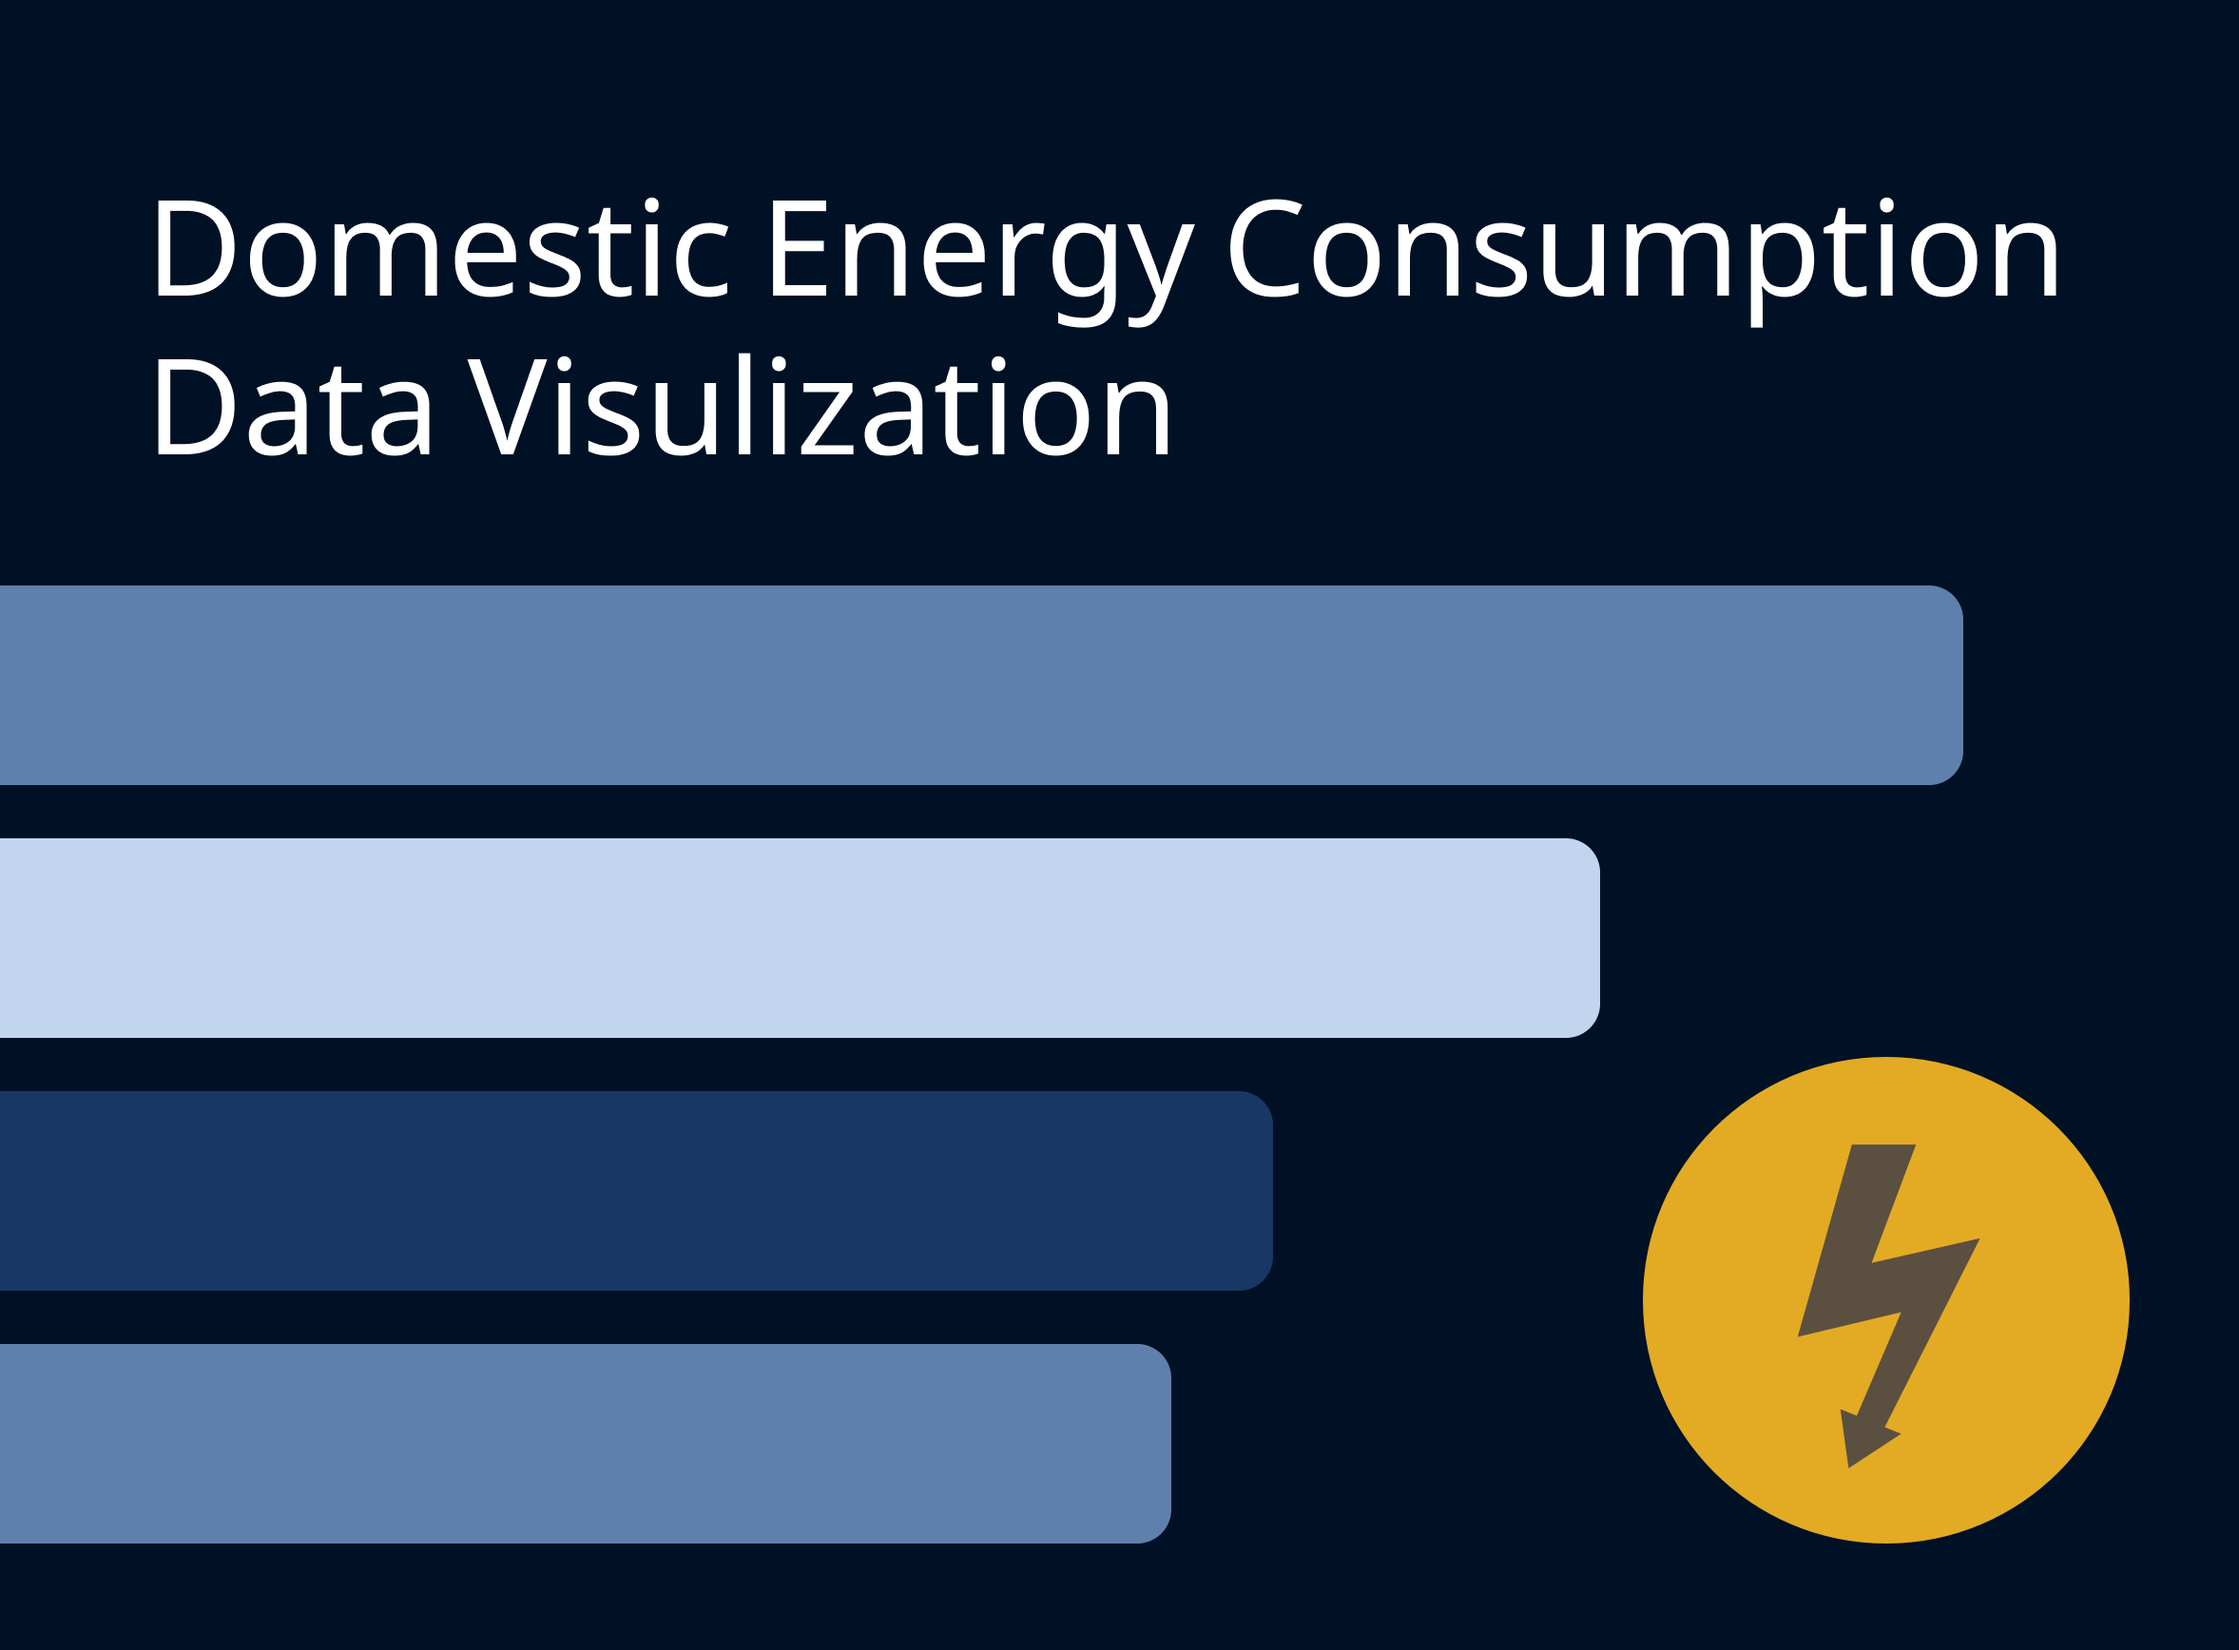
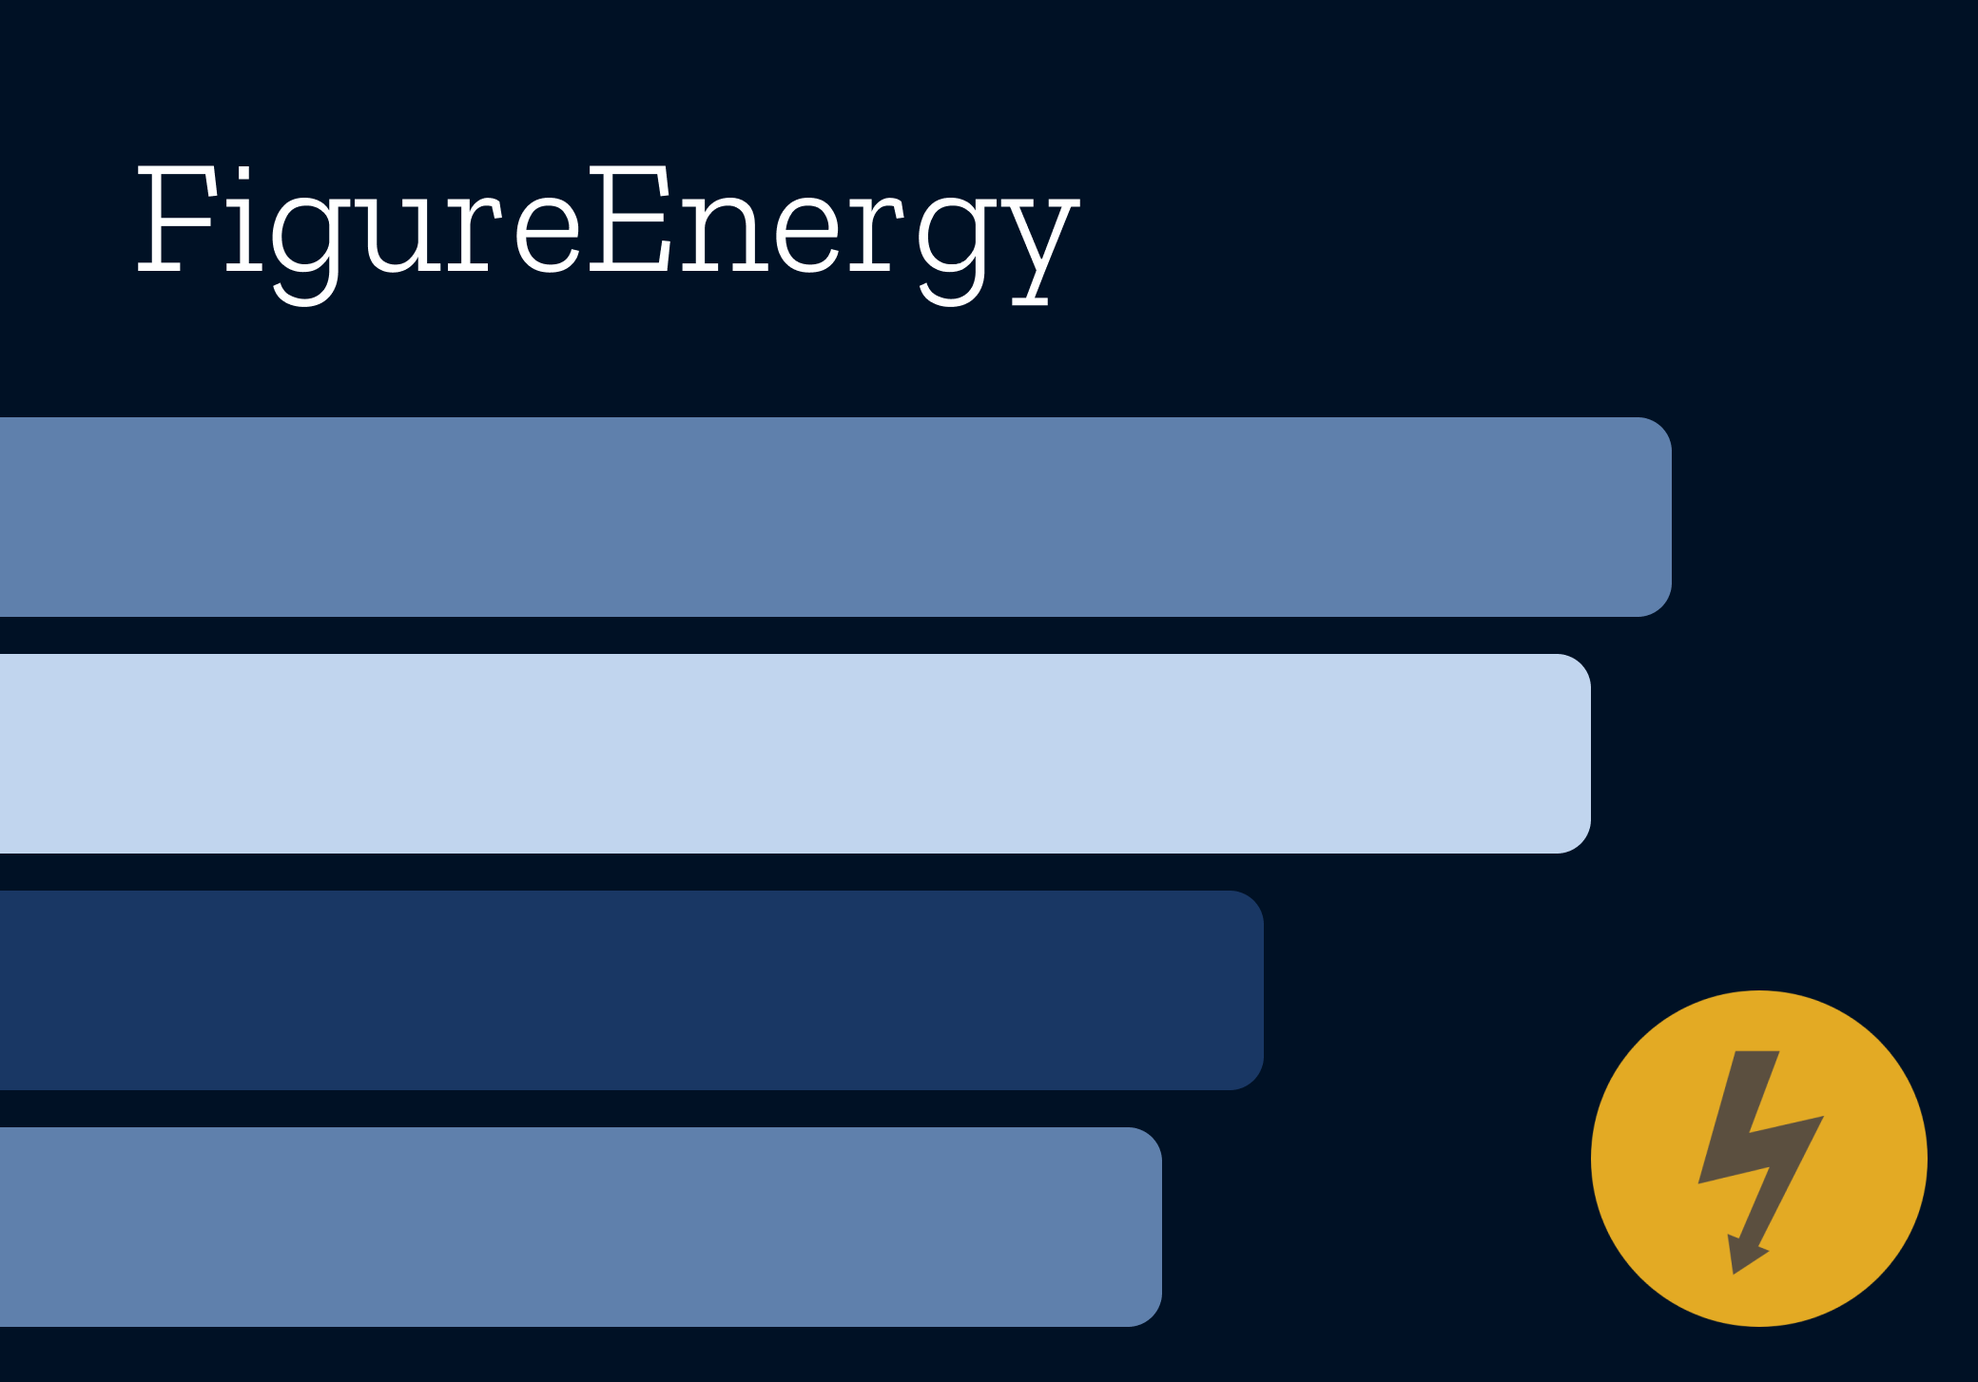
add more for dis

Changed region(s): [[0.0, 0.0928, 0.9375, 0.9594], [0.7188, 0.619, 1.0, 0.9594]]

diff --git a/_programmings/2023-09-01-dissertation.md b/_programmings/2023-09-01-dissertation.md
@@ -1,0 +1,17 @@
+---
+title: 'FigureEnergy'
+subtitle: 'Domestic Energy Consuption Data Visulization - Master Dissertation @ UCL using Django and Vega'
+date: 2023-09-01
+description: This page is a demo that shows everything you can do inside portfolio and blog posts.
+featured_image: '/images/dis/feature.png'
+---
+
+## Under Construction...
+This is my master dissertation, based on <a href="https://dl.acm.org/doi/abs/10.1145/2370216.2370251" class="button button--light">existing reserach</a>
+
+### Annotate View
+![](/images/dis/annotate_view.png)
+
+### Summary View
+![](/images/dis/summary_view.png)
+
